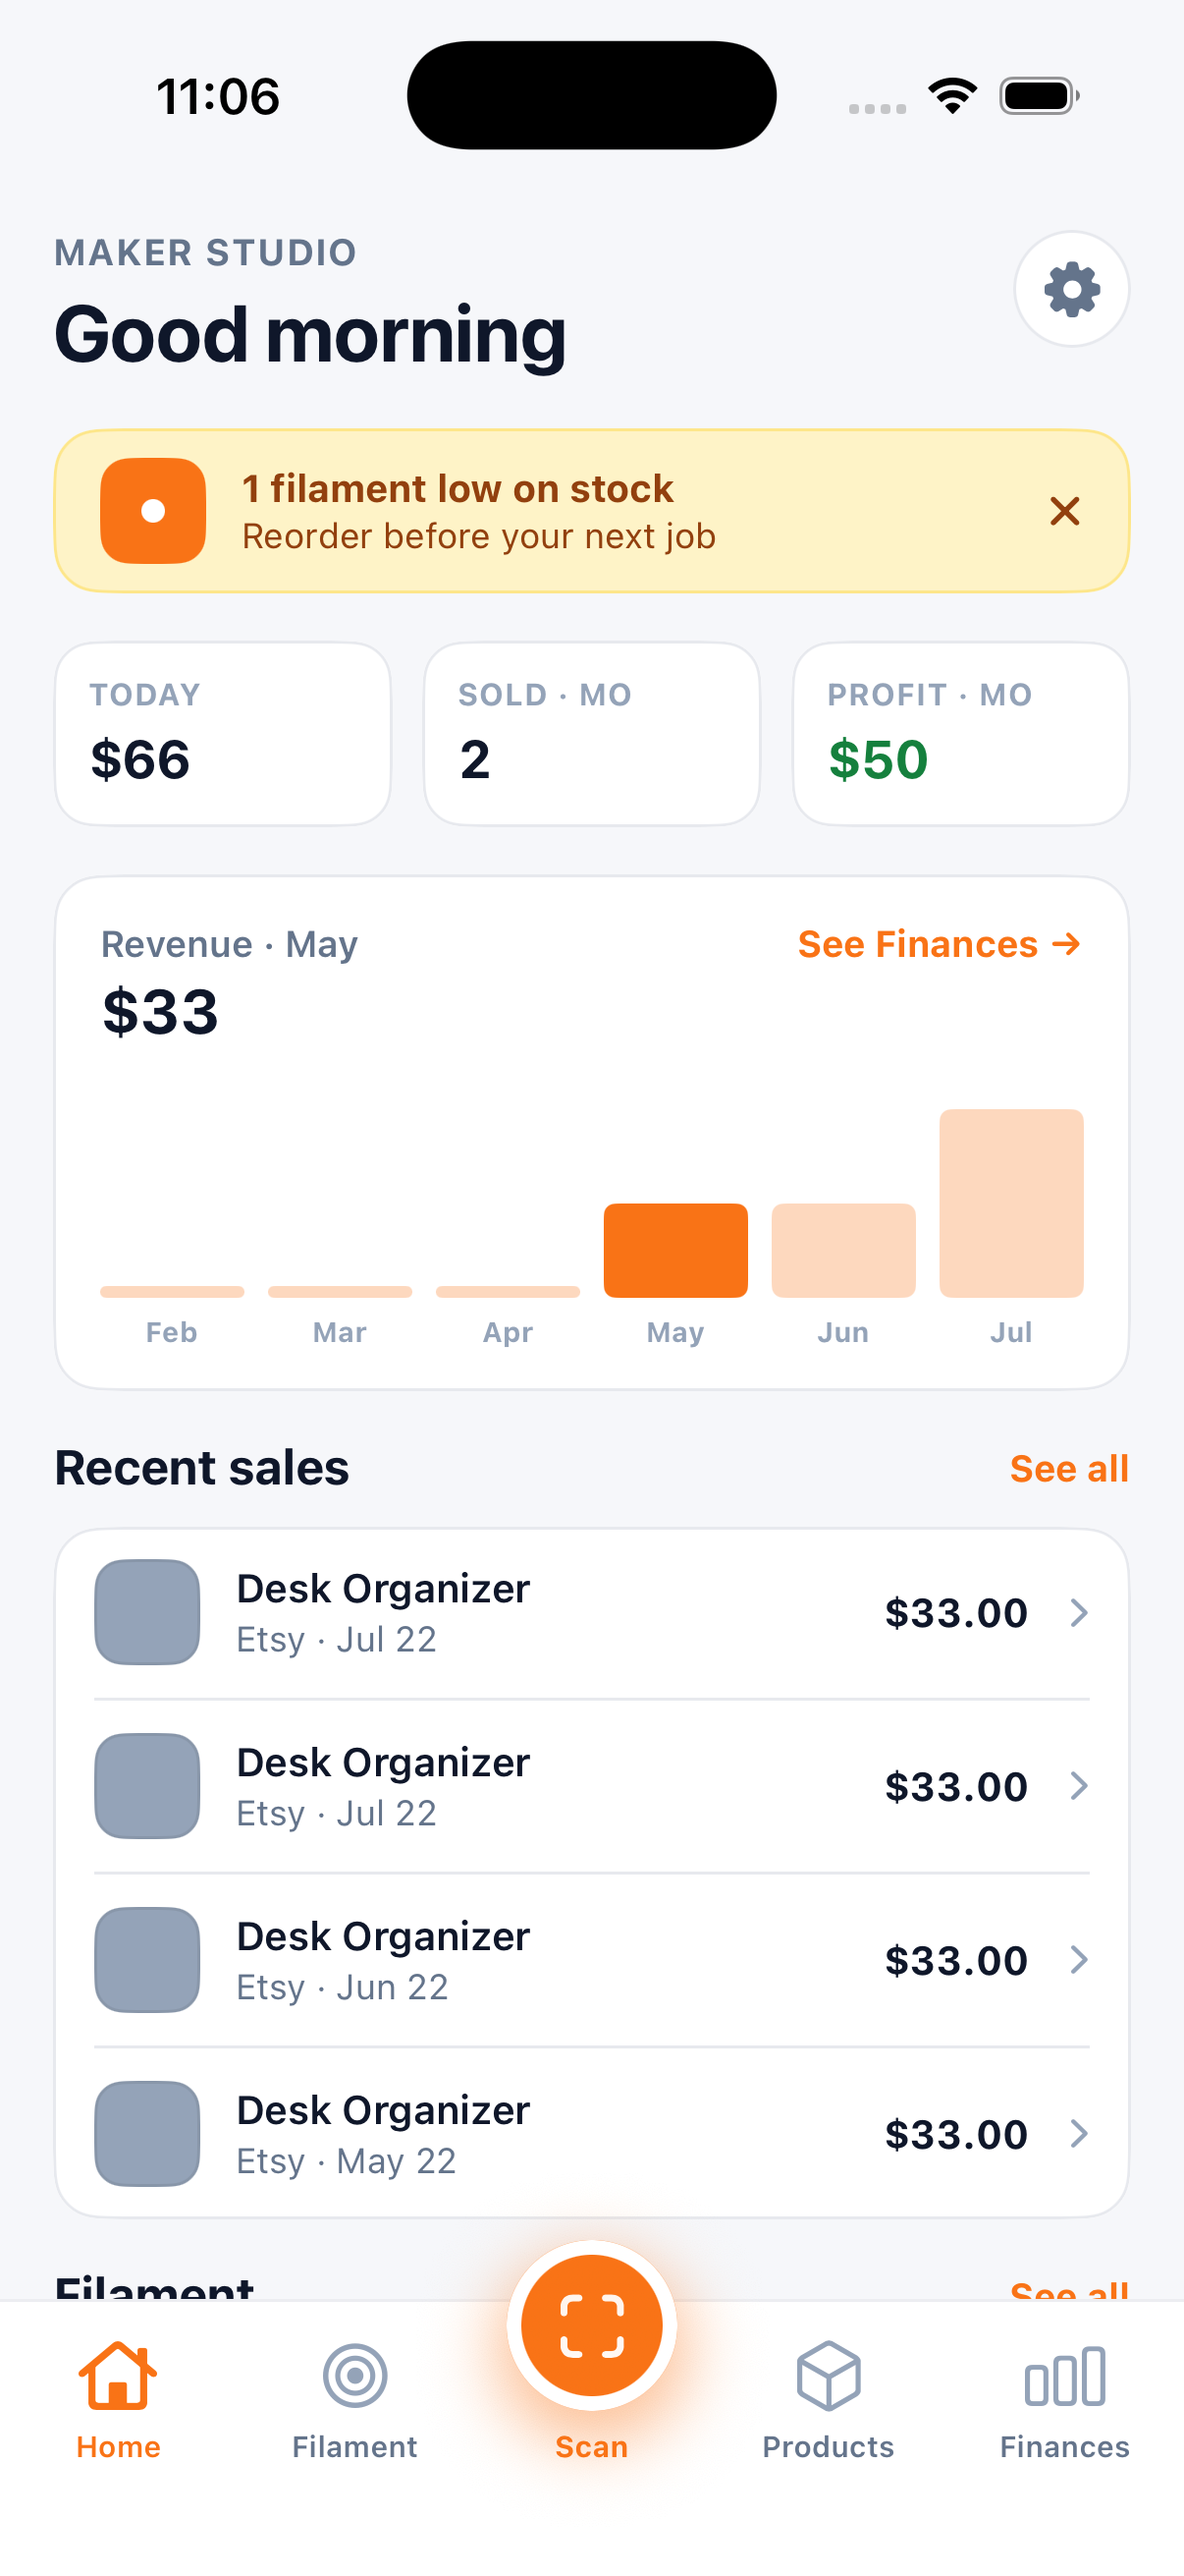
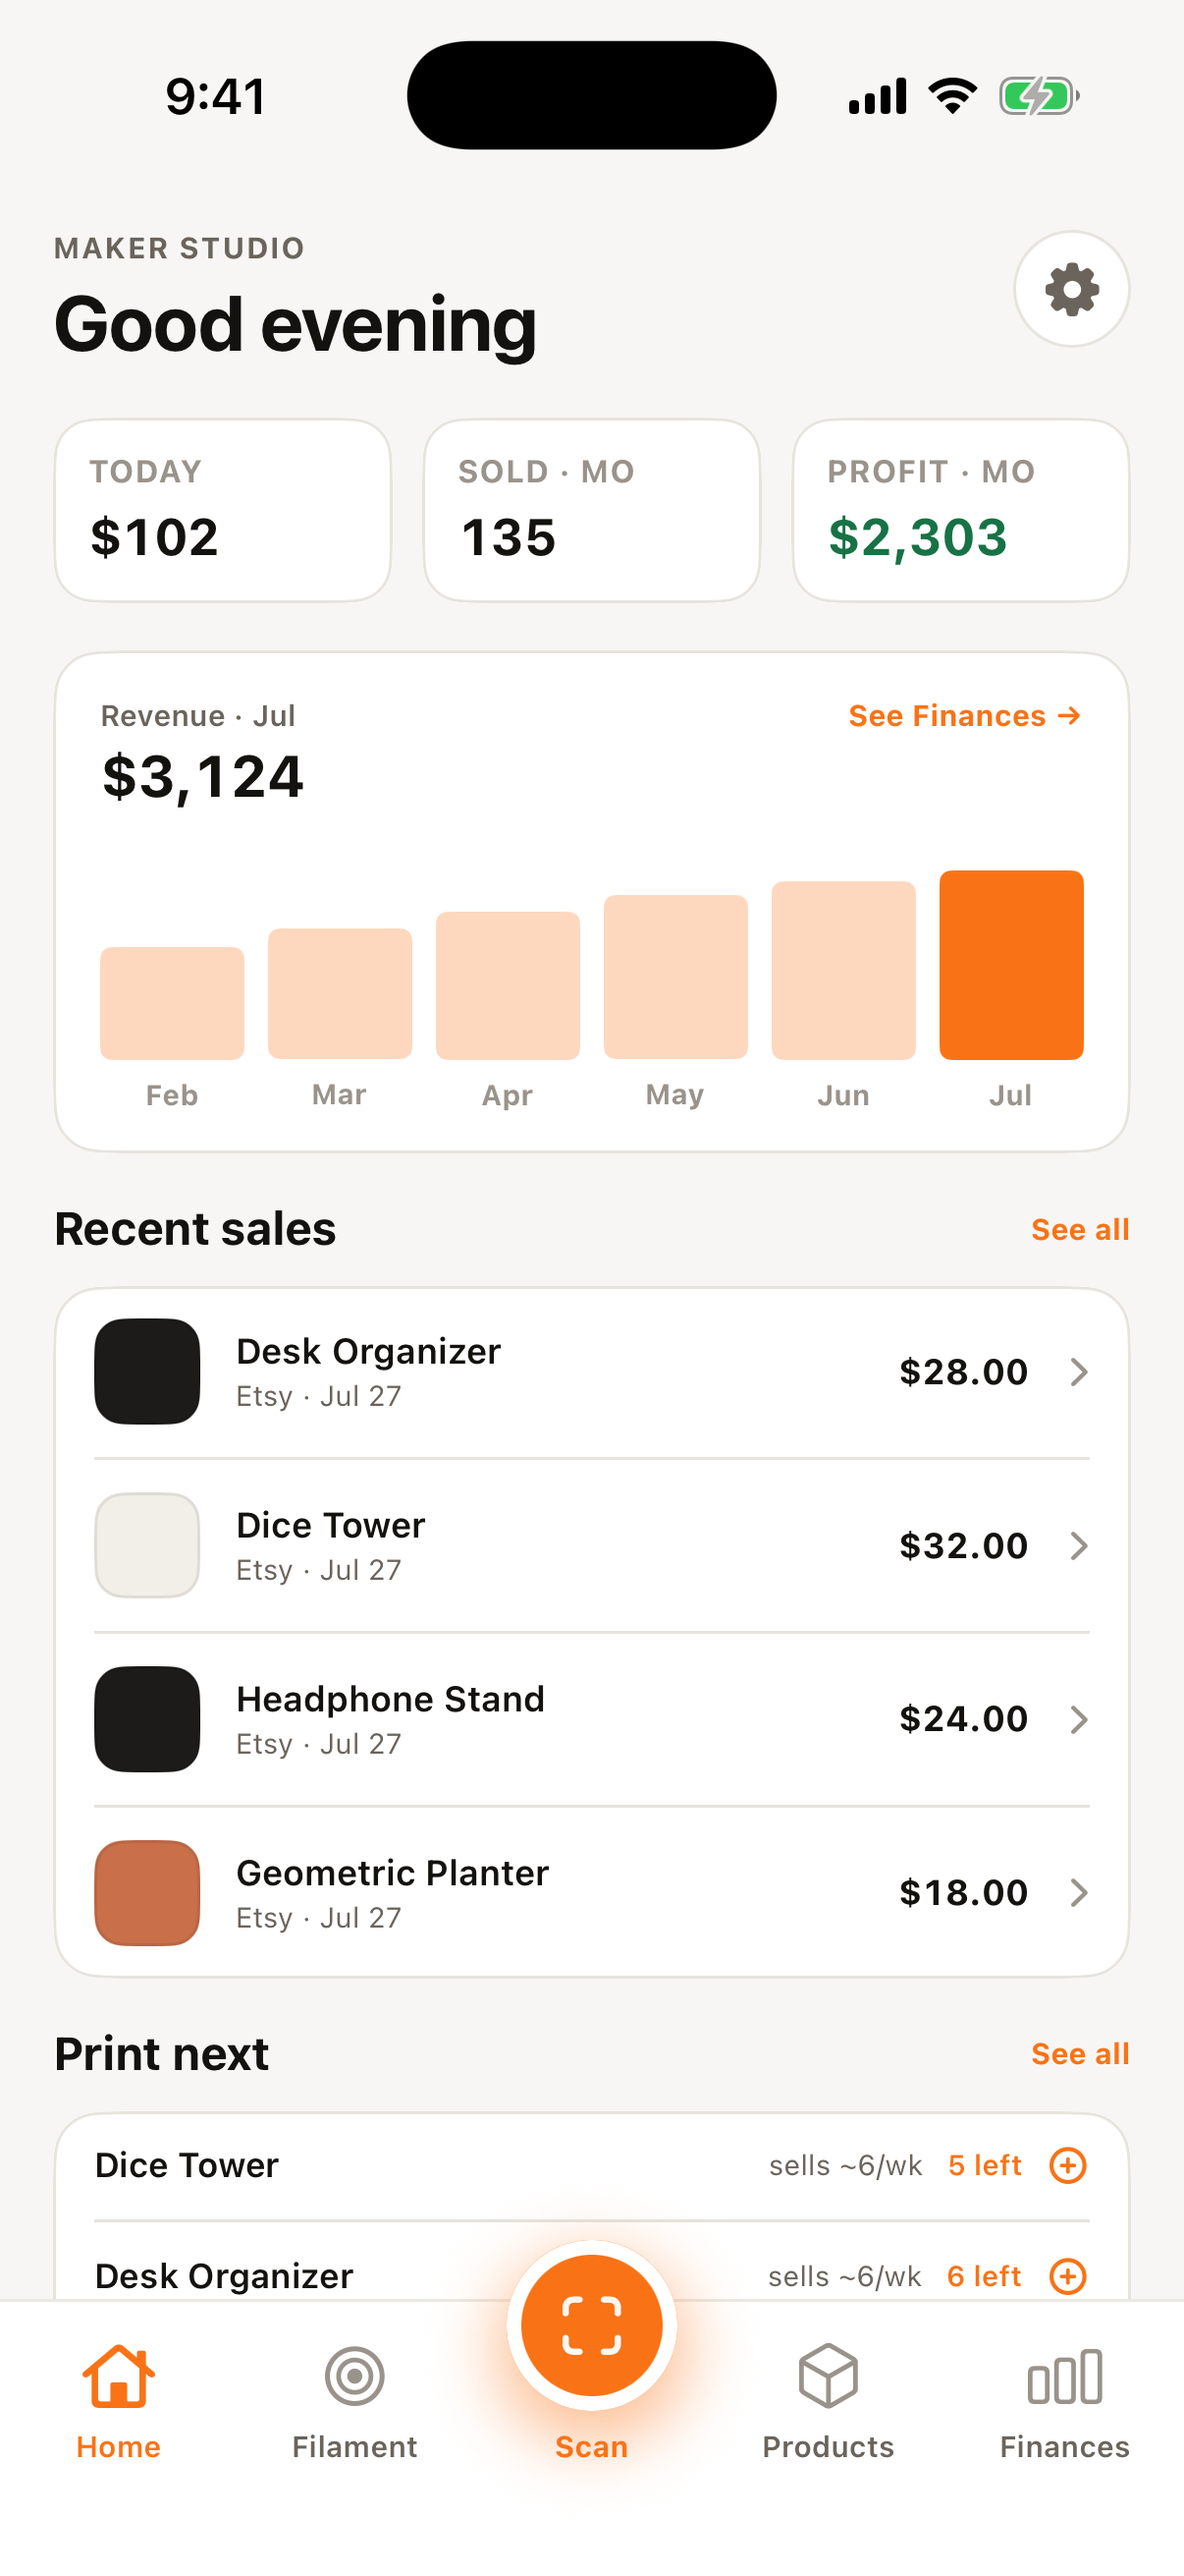
Refresh screenshots in the warm palette with a successful-shop dataset
All three shots recaptured from a coherent Maker Studio demo: $3.1k July
revenue, 135 orders, four distinct products in recent sales, 93 sealed
spools (20+ per filament) with weeks-of-stock forecasts, and a month P&L
at a 74% margin. The hero receipt now mirrors the app's Sale detail for
the same order to the cent — buyer-paid shipping ($5.62) shown as
pass-through instead of the free-shipping example, with the shipping
transaction fee itemized. Numbers match across every visual.

diff --git a/index.html b/index.html
@@ -133,6 +133,7 @@
     .pl.sum{border-top:1px solid rgba(17,16,16,.16);margin-top:8px;padding-top:13px;font-weight:600;align-items:center}
     .pl.sum b{font-size:22px;letter-spacing:-.03em;color:var(--profit)}
     .pl .n{color:#C2540C}
+    .pl.thru{color:var(--muted)}
 
     /* ---- three quiet facts ---- */
     .facts{display:grid;grid-template-columns:repeat(3,1fr);gap:44px;text-align:left;padding:20px 0 0}
@@ -222,17 +223,18 @@
       <h2 class="reveal">Every fee Etsy charged. No estimating.</h2>
       <p class="reveal">Read from your Etsy payment account, order by order, and reconciled against <strong>what Etsy actually deposits</strong>. Buyer-paid shipping is treated as <em>pass-through</em>; when you ship free, the label is counted as the real cost it is.</p>
       <div class="proof reveal">
-        <div class="proof-hd"><span>Desk Organizer · Jul 22</span><span>Reconciled</span></div>
+        <div class="proof-hd"><span>Desk Organizer · Jul 27</span><span>Reconciled</span></div>
         <div class="proof-body">
           <div class="pl"><span>Sold · 1 × $28.00</span><span>$28.00</span></div>
-          <div class="pl"><span>Postage (free shipping)</span><span class="n">−$4.50</span></div>
-          <div class="pl"><span>Etsy fees (actual)</span><span class="n">−$6.74</span></div>
-          <div class="pl child"><span>Offsite Ads</span><span>−$3.40</span></div>
+          <div class="pl thru"><span>Shipping collected · pass-through</span><span>$5.62</span></div>
+          <div class="pl"><span>Etsy fees (actual)</span><span class="n">−$7.68</span></div>
+          <div class="pl child"><span>Offsite Ads</span><span>−$4.03</span></div>
           <div class="pl child"><span>Transaction fee</span><span>−$1.82</span></div>
-          <div class="pl child"><span>Payment processing</span><span>−$1.32</span></div>
+          <div class="pl child"><span>Payment processing</span><span>−$1.26</span></div>
+          <div class="pl child"><span>Transaction fee (shipping)</span><span>−$0.37</span></div>
           <div class="pl child"><span>Listing fee</span><span>−$0.20</span></div>
-          <div class="pl"><span>Product cost</span><span class="n">−$5.90</span></div>
-          <div class="pl sum"><span>Net profit · 55% margin</span><b>$15.36</b></div>
+          <div class="pl"><span>Product cost</span><span class="n">−$2.75</span></div>
+          <div class="pl sum"><span>Net profit · 63% margin</span><b>$17.57</b></div>
         </div>
       </div>
     </div>
